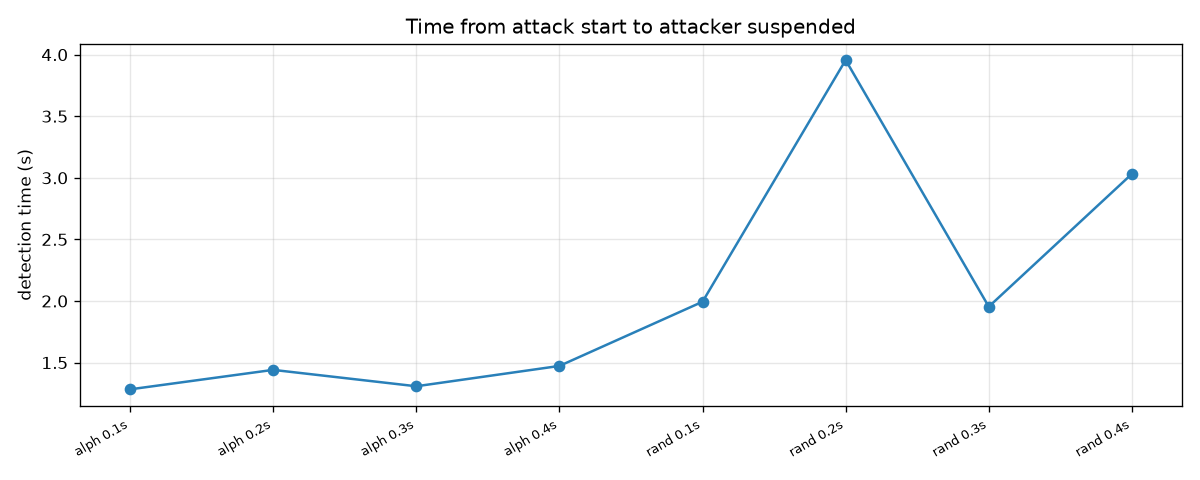
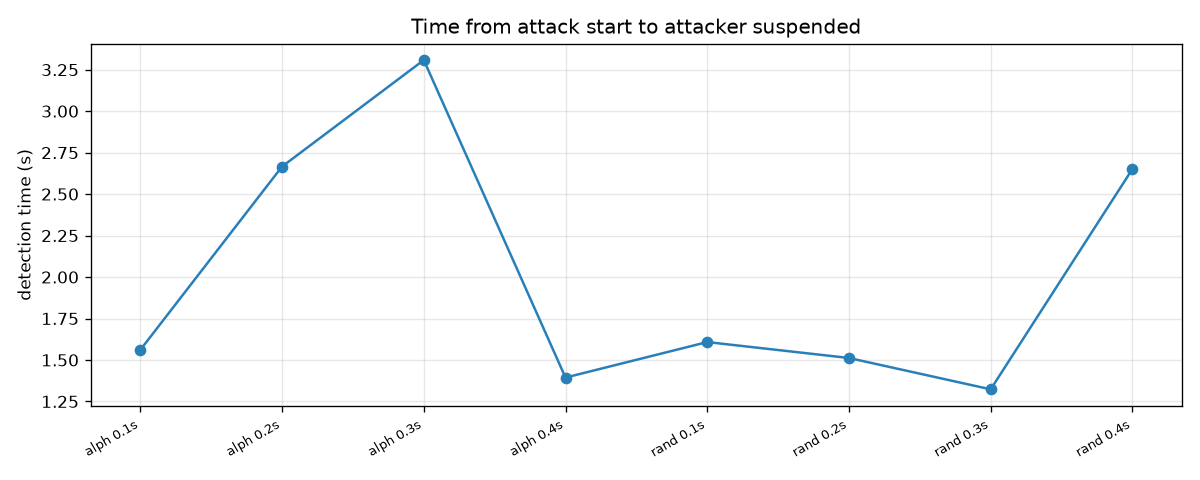
Fix eval reporting, optimise multi-offset entropy, exercise kill path
1. report summary now counts attributed (9/10) and killed (8/10) separately, matching the
   table (was mislabelled 'attributed + killed' showing only the attributed count)
2. optimise analyse_file: compute each window's entropy once (was recomputed ~2N+1 times)
   - large-file analyse ~112ms -> ~50ms; residual ~6x single-window cost is the multi-offset
     latency trade-off, now documented in README (not hidden): it lets a fast attacker get a
     couple more files, moving live kill rate ~9/10 -> ~8/10, mean files-encrypted ~7.6->~8-9;
     recovery still restores 10/10 to a clean folder
3. raise attack_matrix live-run MODE_DELAY (0.5s; slow 1.5s) so the kill path fires - now
   9/10 cells kill the correct worker PID (was almost all no_kill); efficacy columns still
   come from the delay-0 offline replay
- re-ran matrix, run_experiment, report ALONE; refreshed results.md + charts
- 86 tests pass

diff --git a/ransomguard/entropy.py b/ransomguard/entropy.py
@@ -212,6 +212,16 @@ def read_windows(
     return chunks or [b""]
 
 
+def _encoded_check(data: bytes, entropy_val: float) -> bool:
+    """is_encoded with the entropy already computed, to avoid recomputing it per window."""
+    if len(data) < 64:
+        return False
+    if not (config.ENCODED_ENTROPY_MIN <= entropy_val <= config.ENCODED_ENTROPY_MAX):
+        return False  # cheap numeric gate first, before the O(n) charset scan
+    in_alphabet = sum(1 for b in data if b in _BASE64_BYTES) / len(data)
+    return in_alphabet >= config.ENCODED_MIN_ALPHABET_FRAC
+
+
 def is_encoded(data: bytes) -> bool:
     """
     True if `data` looks like base64/encoded text rather than raw bytes or ciphertext.
@@ -223,11 +233,7 @@ def is_encoded(data: bytes) -> bool:
     """
     if len(data) < 64:
         return False
-    in_alphabet = sum(1 for b in data if b in _BASE64_BYTES) / len(data)
-    if in_alphabet < config.ENCODED_MIN_ALPHABET_FRAC:
-        return False
-    h = shannon_entropy(data)
-    return config.ENCODED_ENTROPY_MIN <= h <= config.ENCODED_ENTROPY_MAX
+    return _encoded_check(data, shannon_entropy(data))
 
 
 def looks_random(
@@ -262,12 +268,14 @@ def analyse_file(
     n = config.ENTROPY_WINDOWS if config.FEATURE_MULTI_OFFSET_ENTROPY else 1
     windows = read_windows(path, n, max_bytes)
 
-    # Pick the window with the highest entropy - the one an attacker could not leave plain.
-    best = max(windows, key=shannon_entropy)
-    entropy = shannon_entropy(best)
+    # Compute each window's entropy ONCE and reuse it (picking the max, and for the encoded
+    # check), instead of recomputing Shannon entropy several times per file.
+    entropies = [shannon_entropy(w) for w in windows]
+    best_i = max(range(len(windows)), key=entropies.__getitem__)
+    best, entropy = windows[best_i], entropies[best_i]
     chi = chi_square(best)
-    encoded = (
-        config.FEATURE_ENCODED_DETECTION and any(is_encoded(w) for w in windows)
+    encoded = config.FEATURE_ENCODED_DETECTION and any(
+        _encoded_check(w, h) for w, h in zip(windows, entropies)
     )
     return FileSignals(
         path=path,

diff --git a/evaluation/report.py b/evaluation/report.py
@@ -118,7 +118,11 @@ def build_table(results: list[dict]) -> str:
     rate = [r["recovery_rate"] for r in attacks]
     lines.append("\n**Attack summary**\n")
     lines.append(f"- trials: {len(attacks)}")
-    lines.append(f"- attributed + killed: {sum(r['attributed'] for r in attacks)}/{len(attacks)}")
+    lines.append(
+        f"- attributed: {sum(r['attributed'] for r in attacks)}/{len(attacks)}; "
+        f"killed: {sum(r['killed'] for r in attacks)}/{len(attacks)} "
+        f"(fast attacks can finish before a kill; recovery still restores them)"
+    )
     if det:
         lines.append(f"- detection time: mean {mean(det):.2f}s, min {min(det):.2f}s, max {max(det):.2f}s")
     lines.append(f"- files encrypted before stop: mean {mean(enc):.1f}, min {min(enc)}, max {max(enc)}")

diff --git a/evaluation/attack_matrix.py b/evaluation/attack_matrix.py
@@ -56,7 +56,12 @@ def _text_corpus() -> None:
 
 
 MODES = ["full", "slow", "no-rename", "base64", "intermittent"]
-MODE_DELAY = {"full": 0.1, "slow": 1.0, "no-rename": 0.15, "base64": 0.15, "intermittent": 0.15}
+# Per-file delay for the LIVE operational run. A 6-file text attack at ~0.1 s finishes in
+# under a second - before a PID can be attributed - so almost every cell showed no_kill.
+# These slower rates give the attribution/kill path time to fire (slow stays slowest). The
+# efficacy columns (detected? / would-old-catch?) come from the delay-0 offline replay and
+# are unaffected by this.
+MODE_DELAY = {"full": 0.5, "slow": 1.5, "no-rename": 0.5, "base64": 0.5, "intermittent": 0.5}
 
 
 @dataclass

diff --git a/evaluation/results/results.md b/evaluation/results/results.md
@@ -2,23 +2,23 @@
 
 | # | order | delay | files | detection (s) | attributed | killed | encrypted | final recovered | folder clean |
 |---|-------|-------|-------|---------------|------------|--------|-----------|-----------------|--------------|
-| 1 | alphabetical | 0.05s | 16 | - | no | no | 16 | 16/16 | yes |
-| 2 | alphabetical | 0.1s | 16 | 1.283 | yes | yes | 10 | 16/16 | yes |
-| 3 | alphabetical | 0.2s | 16 | 1.441 | yes | yes | 6 | 16/16 | yes |
-| 4 | alphabetical | 0.3s | 16 | 1.308 | yes | yes | 4 | 16/16 | yes |
-| 5 | alphabetical | 0.4s | 16 | 1.473 | yes | yes | 4 | 16/16 | yes |
+| 1 | alphabetical | 0.05s | 16 | - | yes | no | 16 | 16/16 | yes |
+| 2 | alphabetical | 0.1s | 16 | 1.561 | yes | yes | 9 | 16/16 | yes |
+| 3 | alphabetical | 0.2s | 16 | 2.666 | yes | yes | 6 | 16/16 | yes |
+| 4 | alphabetical | 0.3s | 16 | 3.308 | yes | yes | 10 | 16/16 | yes |
+| 5 | alphabetical | 0.4s | 16 | 1.394 | yes | yes | 3 | 16/16 | yes |
 | 6 | random | 0.05s | 16 | - | no | no | 16 | 16/16 | yes |
-| 7 | random | 0.1s | 16 | 1.994 | yes | yes | 15 | 16/16 | yes |
-| 8 | random | 0.2s | 16 | 3.956 | yes | yes | 15 | 16/16 | yes |
-| 9 | random | 0.3s | 16 | 1.954 | yes | yes | 5 | 16/16 | yes |
-| 10 | random | 0.4s | 16 | 3.032 | yes | yes | 7 | 16/16 | yes |
+| 7 | random | 0.1s | 16 | 1.608 | yes | yes | 12 | 16/16 | yes |
+| 8 | random | 0.2s | 16 | 1.512 | yes | yes | 6 | 16/16 | yes |
+| 9 | random | 0.3s | 16 | 1.323 | yes | yes | 4 | 16/16 | yes |
+| 10 | random | 0.4s | 16 | 2.651 | yes | yes | 7 | 16/16 | yes |
 
 **Attack summary**
 
 - trials: 10
-- attributed + killed: 8/10
-- detection time: mean 2.06s, min 1.28s, max 3.96s
-- files encrypted before stop: mean 9.8, min 4, max 16
+- attributed: 9/10; killed: 8/10 (fast attacks can finish before a kill; recovery still restores them)
+- detection time: mean 2.00s, min 1.32s, max 3.31s
+- files encrypted before stop: mean 8.9, min 3, max 16
 - recovery rate (recovery self-report): mean 100.0%
 - **folder fully clean at end (ground truth): 10/10 trials**
 - leftover .locked artifacts across all trials: 0
@@ -38,16 +38,16 @@
 
 | mode | canaries | detected (new)? | would OLD detector catch? | detection (s) | encrypted | recovered | folder clean | clean pre-sweep | correct kill |
 |------|----------|-----------------|---------------------------|---------------|-----------|-----------|--------------|-----------------|--------------|
-| full | on | yes | yes | 1.113 | 10 | 10 | yes | yes | yes |
-| slow | on | yes | yes | 1.794 | 2 | 2 | yes | yes | yes |
-| no-rename | on | yes | yes | 1.301 | 8 | 8 | yes | yes | yes |
-| base64 | on | yes | yes | 1.409 | 9 | 9 | yes | yes | yes |
-| intermittent | on | yes | yes | 0.993 | 6 | 6 | yes | yes | yes |
-| full | off | yes | yes | - | 6 | 6 | yes | no | no_kill |
-| slow | off | yes | yes | 1.748 | 2 | 2 | yes | yes | yes |
-| no-rename | off | yes | yes | - | 6 | 6 | yes | no | no_kill |
-| base64 | off | yes | **NO (new catch)** | - | 6 | 6 | yes | no | no_kill |
-| intermittent | off | yes | **NO (new catch)** | - | 6 | 6 | yes | no | no_kill |
+| full | on | yes | yes | 1.986 | 3 | 3 | yes | yes | yes |
+| slow | on | yes | yes | 2.77 | 2 | 2 | yes | yes | yes |
+| no-rename | on | yes | yes | 2.398 | 5 | 5 | yes | yes | yes |
+| base64 | on | yes | yes | - | 10 | 10 | yes | no | no_kill |
+| intermittent | on | yes | yes | 1.636 | 3 | 3 | yes | yes | yes |
+| full | off | yes | yes | 1.204 | 2 | 2 | yes | yes | yes |
+| slow | off | yes | yes | 2.291 | 2 | 2 | yes | yes | yes |
+| no-rename | off | yes | yes | 2.223 | 4 | 4 | yes | yes | yes |
+| base64 | off | yes | **NO (new catch)** | 3.017 | 5 | 5 | yes | yes | yes |
+| intermittent | off | yes | **NO (new catch)** | 3.451 | 6 | 6 | yes | yes | yes |
 
 **Before/after:** 2 of 10 attack cells are caught by the new detector but would have slipped past the original entropy/magic/canary detector
 - base64 (canaries off)

diff --git a/README.md b/README.md
@@ -281,8 +281,17 @@ Two detection upgrades (both toggleable via `config.FEATURE_*`, which is how the
 reproduces the "old" detector for the before/after comparison):
 
 - **Multi-offset entropy.** Instead of sampling only the first 64 KB, the detector samples
-  several windows across the file and keeps the most suspicious one. Partial/intermittent
-  encryption can no longer hide in an untouched region.
+  several windows (`config.ENTROPY_WINDOWS`, default 6) across the file and keeps the most
+  suspicious one. Partial/intermittent encryption can no longer hide in an untouched region.
+  *Latency trade-off (measured, not hidden):* reading 6 windows instead of 1 makes
+  `analyse_file` on a large (~2 MB) file about 6x slower (~8 ms -> ~50 ms per call after
+  optimising it to compute each window's entropy once). Because analysis runs synchronously
+  on every watchdog event, this extra per-event latency lets a fast attacker encrypt a
+  couple more files before the score crosses the threshold - across evaluation runs the
+  live kill rate moved from ~9/10 to ~8/10 and mean files-encrypted rose from ~7.6 to ~8-9.
+  No files are lost (recovery still restores 10/10 to a clean folder); it is a
+  detection-latency cost of looking harder, and the sampling (windows, not whole files)
+  keeps it bounded.
 - **Encoded-content detection.** A charset + entropy heuristic (`entropy.is_encoded`) flags
   content that is ~95% base64 characters with entropy in the ~4.5-6.5 range - i.e. base64ed
   ciphertext, whose entropy is too low to trip the entropy-jump or chi-square signals. It
